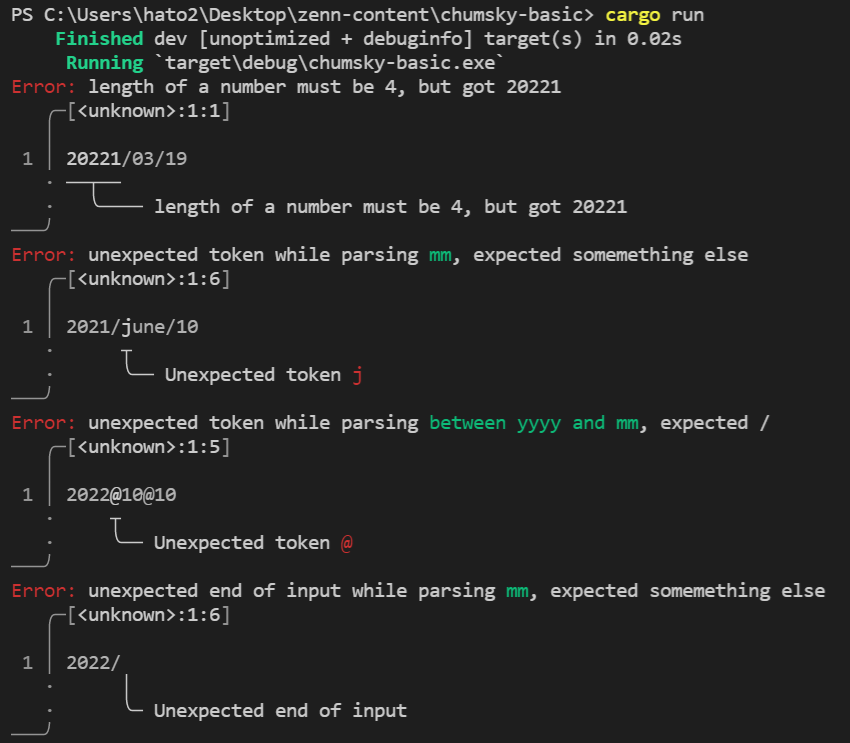
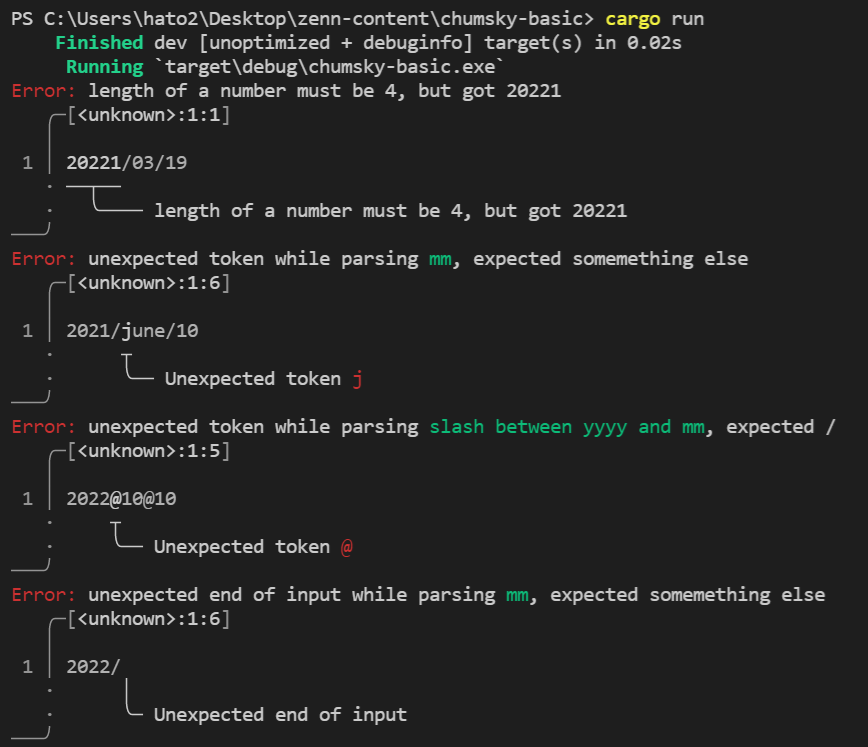
fix

diff --git a/chumsky-basic/src/main.rs b/chumsky-basic/src/main.rs
@@ -22,9 +22,9 @@ fn yyyy_mm_dd() -> impl Parser<char, (u32, u32, u32), Error = Simple<char>> {
 
     number(4)
         .labelled("yyyy")
-        .then_ignore(just('/').labelled("between yyyy and mm"))
+        .then_ignore(just('/').labelled("slash between yyyy and mm"))
         .then(number(2).labelled("mm"))
-        .then_ignore(just('/').labelled("betweel mm and dd"))
+        .then_ignore(just('/').labelled("slash between mm and dd"))
         .then(number(2).labelled("dd"))
         .map(|((y, m), d)| (y, m, d))
 }

diff --git a/articles/b8c3355075cb1e.md b/articles/b8c3355075cb1e.md
@@ -83,11 +83,11 @@ fn yyyy_mm_dd() -> impl Parser<char, (u32, u32, u32), Error = Simple<char>> {
         // '/'にマッチさせその結果は破棄する
         .then_ignore(
             // 名前の通り`just`は引数の文字列にそのままマッチする
-            just('/').labelled("between yyyy and mm"))
+            just('/').labelled("slash between yyyy and mm"))
         // mm
         // thenでパーサーをつなげると双方の結果がタプルで得られる
         .then(number(2).labelled("mm"))
-        .then_ignore(just('/').labelled("betweel mm and dd"))
+        .then_ignore(just('/').labelled("slash between mm and dd"))
         // dd
         .then(number(2).labelled("dd"))
         .map(|((y, m), d)| (y, m, d))
